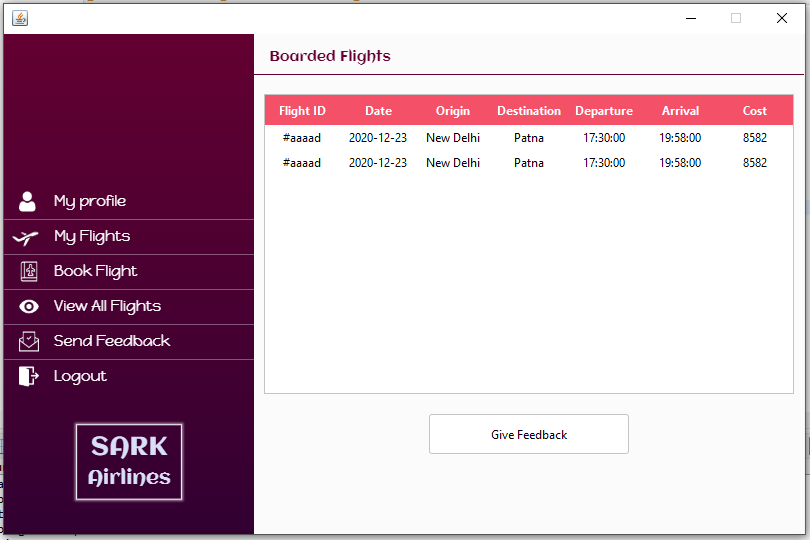
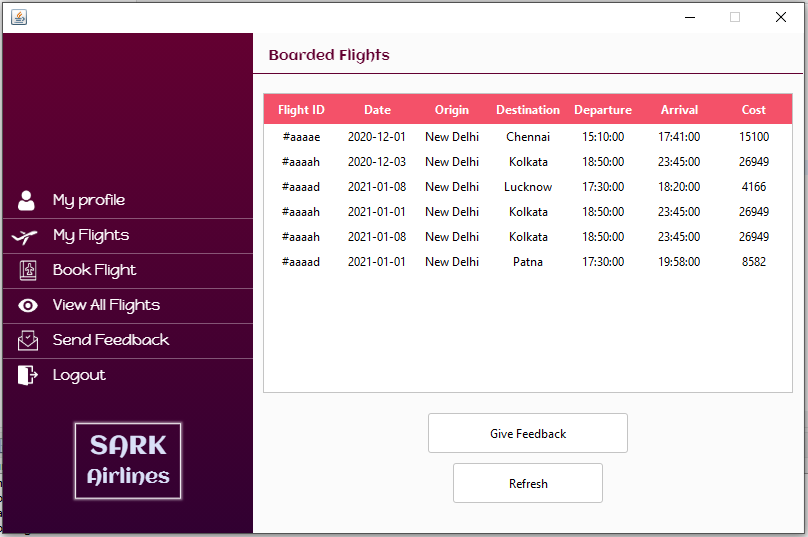
Updated SendFeedback Panel
Added a refresh button in user SendFeedback Panel. This Button will refresh the current showing boarded flights

diff --git a/user/sendFeedback.java b/user/sendFeedback.java
@@ -24,6 +24,7 @@ public class sendFeedback extends JPanel implements MouseListener{
 	private JButton sendfeedback;
 	JTextArea message;
 	private int userid;
+	private JButton refresh;
 	
 	public sendFeedback(int userid) {
 		
@@ -52,7 +53,12 @@ public class sendFeedback extends JPanel implements MouseListener{
 		sendfeedback.setBounds(175,380,200,40);
 		sendfeedback.addMouseListener(this);
 		
+		refresh = new JButton("Refresh");
+		refresh.setBounds(200,430,150,40);
+		refresh.addMouseListener(this);
+		
 		bg.add(sendfeedback);
+		bg.add(refresh);
 		bg.add(sp);
 		
 		add(bg);
@@ -74,6 +80,11 @@ public class sendFeedback extends JPanel implements MouseListener{
 		bg.add(message);
 		pnl.add(bg);
 		return pnl;
+	}
+	
+	private void refresh() {
+		new myFlights(userid).myFlightsSorter();
+		sp.setViewportView(Login.boarded_flights);
 	}
 	
 	@Override
@@ -114,6 +125,8 @@ public class sendFeedback extends JPanel implements MouseListener{
 			else {
 				//Do Nothing
 			}
+		} else if (e.getSource() ==  refresh) {
+			refresh();
 		}
 	}
 	@Override

diff --git a/user/myFlights.java b/user/myFlights.java
@@ -77,7 +77,7 @@ public class myFlights extends JPanel {
 	}
 	
 	//Getting myFlights list(Upcoming and Boarded) 
-		private void myFlightsSorter() {	
+		 void myFlightsSorter() {	
 
 			String line;
 			String[] values;
